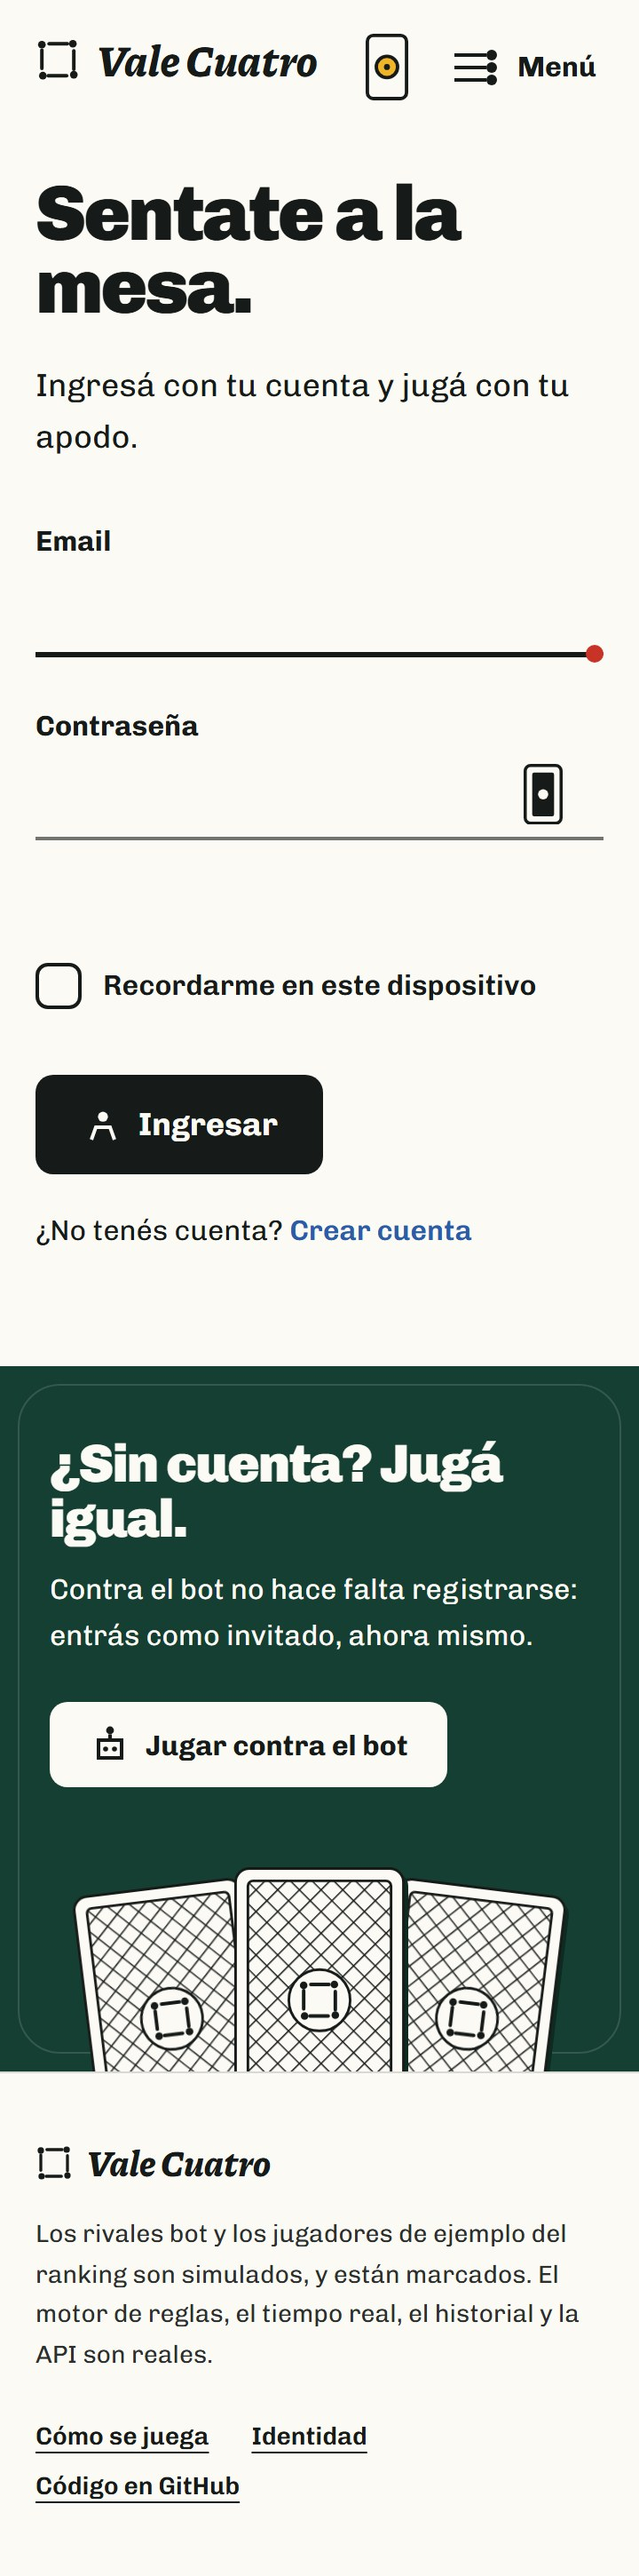
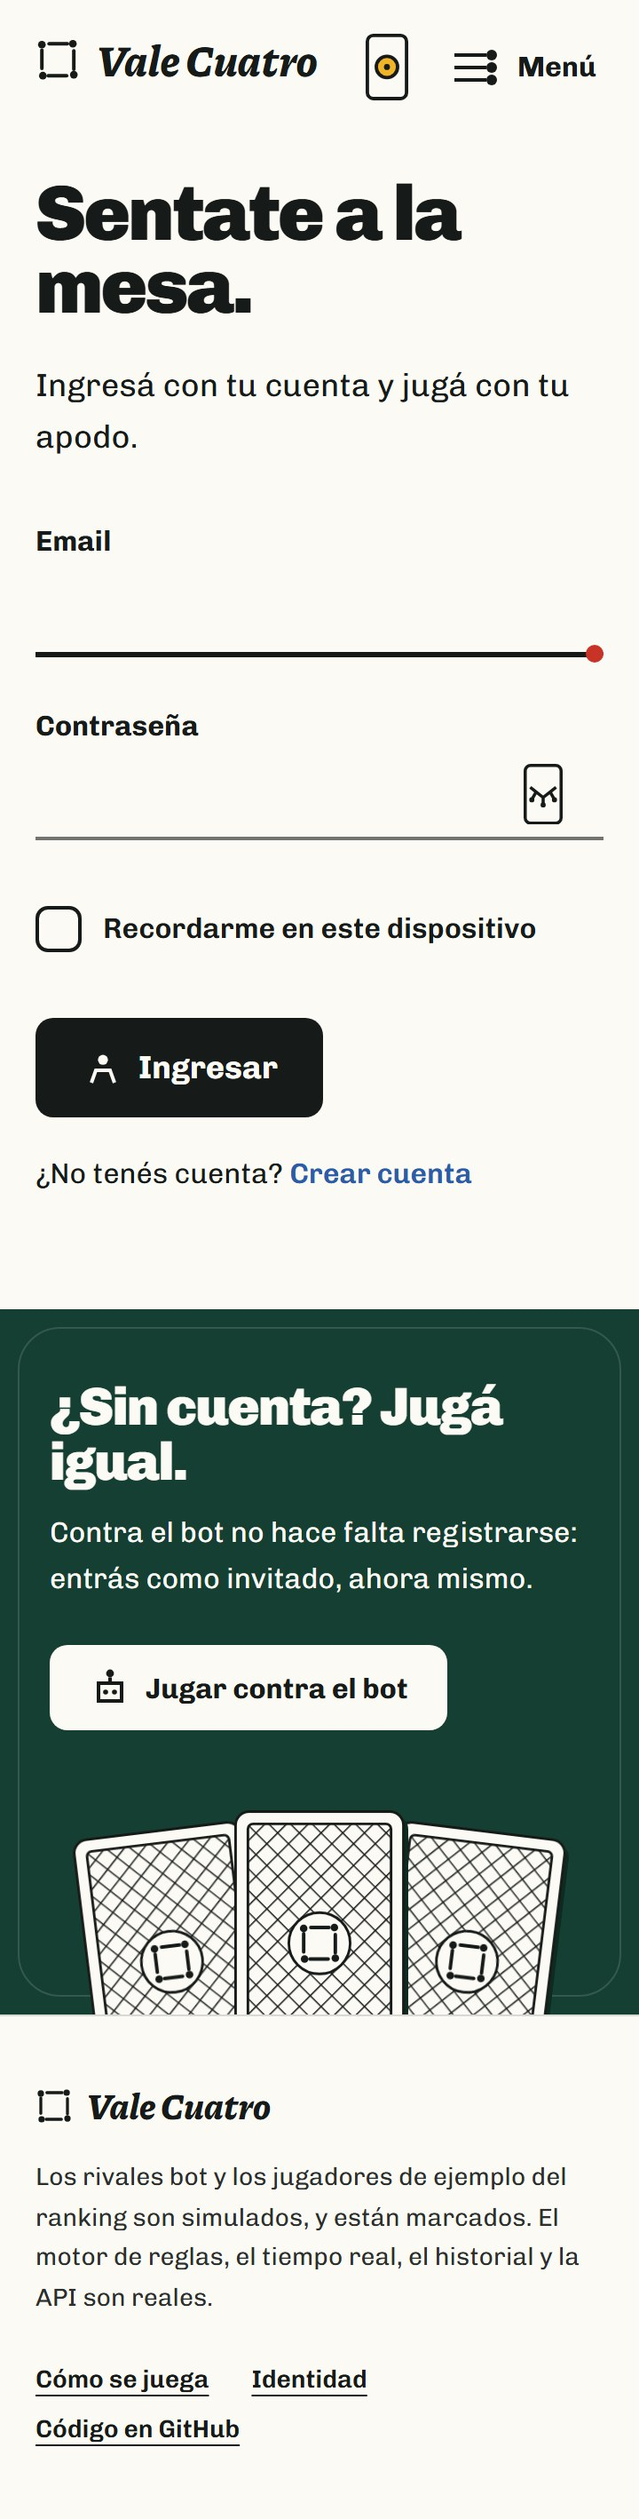
M1: la contraseña se muestra con una carta de ojo abierto o cerrado, sin la cuenta en fósforos

diff --git a/resources/views/components/campo.blade.php b/resources/views/components/campo.blade.php
@@ -5,10 +5,9 @@
      | Un campo de formulario: rótulo, ayuda, el control y su error. La ayuda y
      | el error quedan atados al control para que el lector de pantalla los lea.
      |
-     | La contraseña suma dos cosas. Una carta para verla, porque se escribe una
-     | sola vez: boca abajo está oculta y boca arriba, con un ojo, se ve. Y la
-     | cuenta de caracteres en fósforos, de a cinco por grupo como en el
-     | tanteador: cada tecla hace caer uno.
+     | La contraseña suma una carta para verla, porque se escribe una sola vez:
+     | de un lado tiene un ojo cerrado (oculta) y del otro el ojo abierto (se
+     | ve); al tocarla se da vuelta.
      */
     $id = "campo-{$nombre}";
     $esClave = $tipo === 'password';
@@ -18,7 +17,7 @@
     ]));
 @endphp
 
-<div @if ($esClave) x-data="{ visible: false, largo: 0 }" @endif>
+<div @if ($esClave) x-data="{ visible: false }" @endif>
     <label for="{{ $id }}" class="block font-bold">{{ $rotulo }}</label>
 
     @if ($ayuda)
@@ -27,7 +26,7 @@
 
     <span class="campo-linea mt-1">
         <input id="{{ $id }}" name="{{ $nombre }}" type="{{ $tipo }}" @class(['campo', 'pr-14' => $esClave])
-            @if ($esClave) :type="visible ? 'text' : 'password'" @input="largo = $event.target.value.length" @else value="{{ old($nombre, $valor) }}" @endif
+            @if ($esClave) :type="visible ? 'text' : 'password'" @else value="{{ old($nombre, $valor) }}" @endif
             @if ($describe) aria-describedby="{{ $describe }}" @endif
             @error($nombre) aria-invalid="true" @enderror
             {{ $attributes }}>
@@ -38,10 +37,13 @@
                 aria-label="Mostrar la contraseña" aria-pressed="false" :aria-pressed="visible.toString()"
                 title="Mostrar la contraseña" :title="visible ? 'Ocultar la contraseña' : 'Mostrar la contraseña'">
                 <span class="giro ver-clave-carta" data-vuelta="false" :data-vuelta="visible.toString()" aria-hidden="true">
+                    {{-- Oculta: el ojo cerrado. El párpado es la mitad de abajo del ojo abierto, con tres pestañas. --}}
                     <svg viewBox="0 0 100 156">
                         <rect x="4" y="4" width="92" height="148" rx="14" fill="var(--color-naipe)" stroke="var(--color-tinta)" stroke-width="8" />
-                        <rect x="22" y="22" width="56" height="112" rx="5" fill="var(--color-tinta)" />
-                        <circle cx="50" cy="78" r="13" fill="var(--color-naipe)" />
+                        <path d="M17 60 50 86 83 60M50 86V101M32 72 23 88M68 72 77 88" fill="none" stroke="var(--color-tinta)" stroke-width="8" stroke-linejoin="miter" />
+                        <circle cx="50" cy="105" r="6.5" fill="var(--color-tinta)" />
+                        <circle cx="21" cy="92" r="6.5" fill="var(--color-tinta)" />
+                        <circle cx="79" cy="92" r="6.5" fill="var(--color-tinta)" />
                     </svg>
                     <svg class="giro-cara" viewBox="0 0 100 156">
                         <rect x="4" y="4" width="92" height="148" rx="14" fill="var(--color-naipe)" stroke="var(--color-tinta)" stroke-width="8" />
@@ -52,14 +54,6 @@
             </button>
         @endif
     </span>
-
-    @if ($esClave)
-        <div class="-mb-2 mt-3 flex h-7 gap-2" aria-hidden="true">
-            @for ($g = 0; $g < 6; $g++)
-                <x-fosforos :grupo="$g" modelo="largo" palito="currentColor" class="size-7" />
-            @endfor
-        </div>
-    @endif
 
     @error($nombre)
         <p id="{{ $id }}-error" class="mt-2 text-sm font-semibold text-pierde">{{ $message }}</p>

diff --git a/resources/views/components/fosforos.blade.php b/resources/views/components/fosforos.blade.php
@@ -1,4 +1,4 @@
-@props(['grupo' => 0, 'puntos' => 0, 'modelo' => null, 'palito' => 'var(--color-fosforo)'])
+@props(['grupo' => 0, 'puntos' => 0, 'modelo' => null])
 
 @php
     /*
@@ -20,7 +20,7 @@
     @foreach ($fosforos as $i => [$trazo, $cx, $cy])
         @php($numero = $grupo * 5 + $i + 1)
         <g @class(['fosforo', 'puesto' => $puntos >= $numero]) @if ($modelo) :class="{ puesto: {{ $modelo }} >= {{ $numero }} }" @endif>
-            <path d="{{ $trazo }}" fill="none" stroke="{{ $palito }}" stroke-width="2.4" stroke-linecap="round" />
+            <path d="{{ $trazo }}" fill="none" stroke="var(--color-fosforo)" stroke-width="2.4" stroke-linecap="round" />
             <circle cx="{{ $cx }}" cy="{{ $cy }}" r="2.6" fill="var(--color-copa)" />
         </g>
     @endforeach

diff --git a/docs/decisiones.md b/docs/decisiones.md
@@ -106,6 +106,6 @@ Cada entrada dice qué problema había, qué se eligió y qué se descartó.
 ### Las pantallas de cuenta usan las piezas del sitio
 
 - **Problema:** un formulario de ingreso es lo más genérico que tiene cualquier sitio.
-- **Se eligió:** media pantalla es formulario y la otra media es mesa, de borde a borde. Los campos no llevan caja: los subraya un fósforo que se dibuja al entrar, el mismo gesto que los links. La contraseña se cuenta en fósforos de a cinco, como el tanteador, y se muestra u oculta con una carta chica que se da vuelta (boca arriba tiene un ojo). En el ingreso, la mesa muestra tu mano boca abajo y cada carta se da vuelta al completar un paso: el email, la contraseña y el envío. En registro y perfil, la mesa muestra el apodo en el tanteador mientras se escribe.
-- **Se descartó:** la caja centrada con el logo arriba, y mostrar el error de ingreso como un canto "No quiero": Piazzolla es solo la voz de los jugadores y un error tiene que leerse sin vueltas.
+- **Se eligió:** media pantalla es formulario y la otra media es mesa, de borde a borde. Los campos no llevan caja: los subraya un fósforo que se dibuja al entrar, el mismo gesto que los links. La contraseña se muestra u oculta con una carta chica que se da vuelta: de un lado tiene un ojo abierto y del otro un ojo cerrado, dibujados con el trazo de los fósforos. En el ingreso, la mesa muestra tu mano boca abajo y cada carta se da vuelta al completar un paso: el email, la contraseña y el envío. En registro y perfil, la mesa muestra el apodo en el tanteador mientras se escribe.
+- **Se descartó:** la caja centrada con el logo arriba, y mostrar el error de ingreso como un canto "No quiero": Piazzolla es solo la voz de los jugadores y un error tiene que leerse sin vueltas. También se probó contar los caracteres de la contraseña con fósforos debajo del campo, y se sacó: no hacía falta.
 - **El giro:** es una transición de CSS sobre `transform` (300 ms, la curva del sitio) y no una animación con keyframes, para que se pueda interrumpir: si se borra el email, la carta vuelve desde donde esté. La carta que ya corresponde dada vuelta al cargar la página sale así del servidor, sin animarse. Con movimiento reducido no gira: la cara aparece con un fundido de 150 ms.
